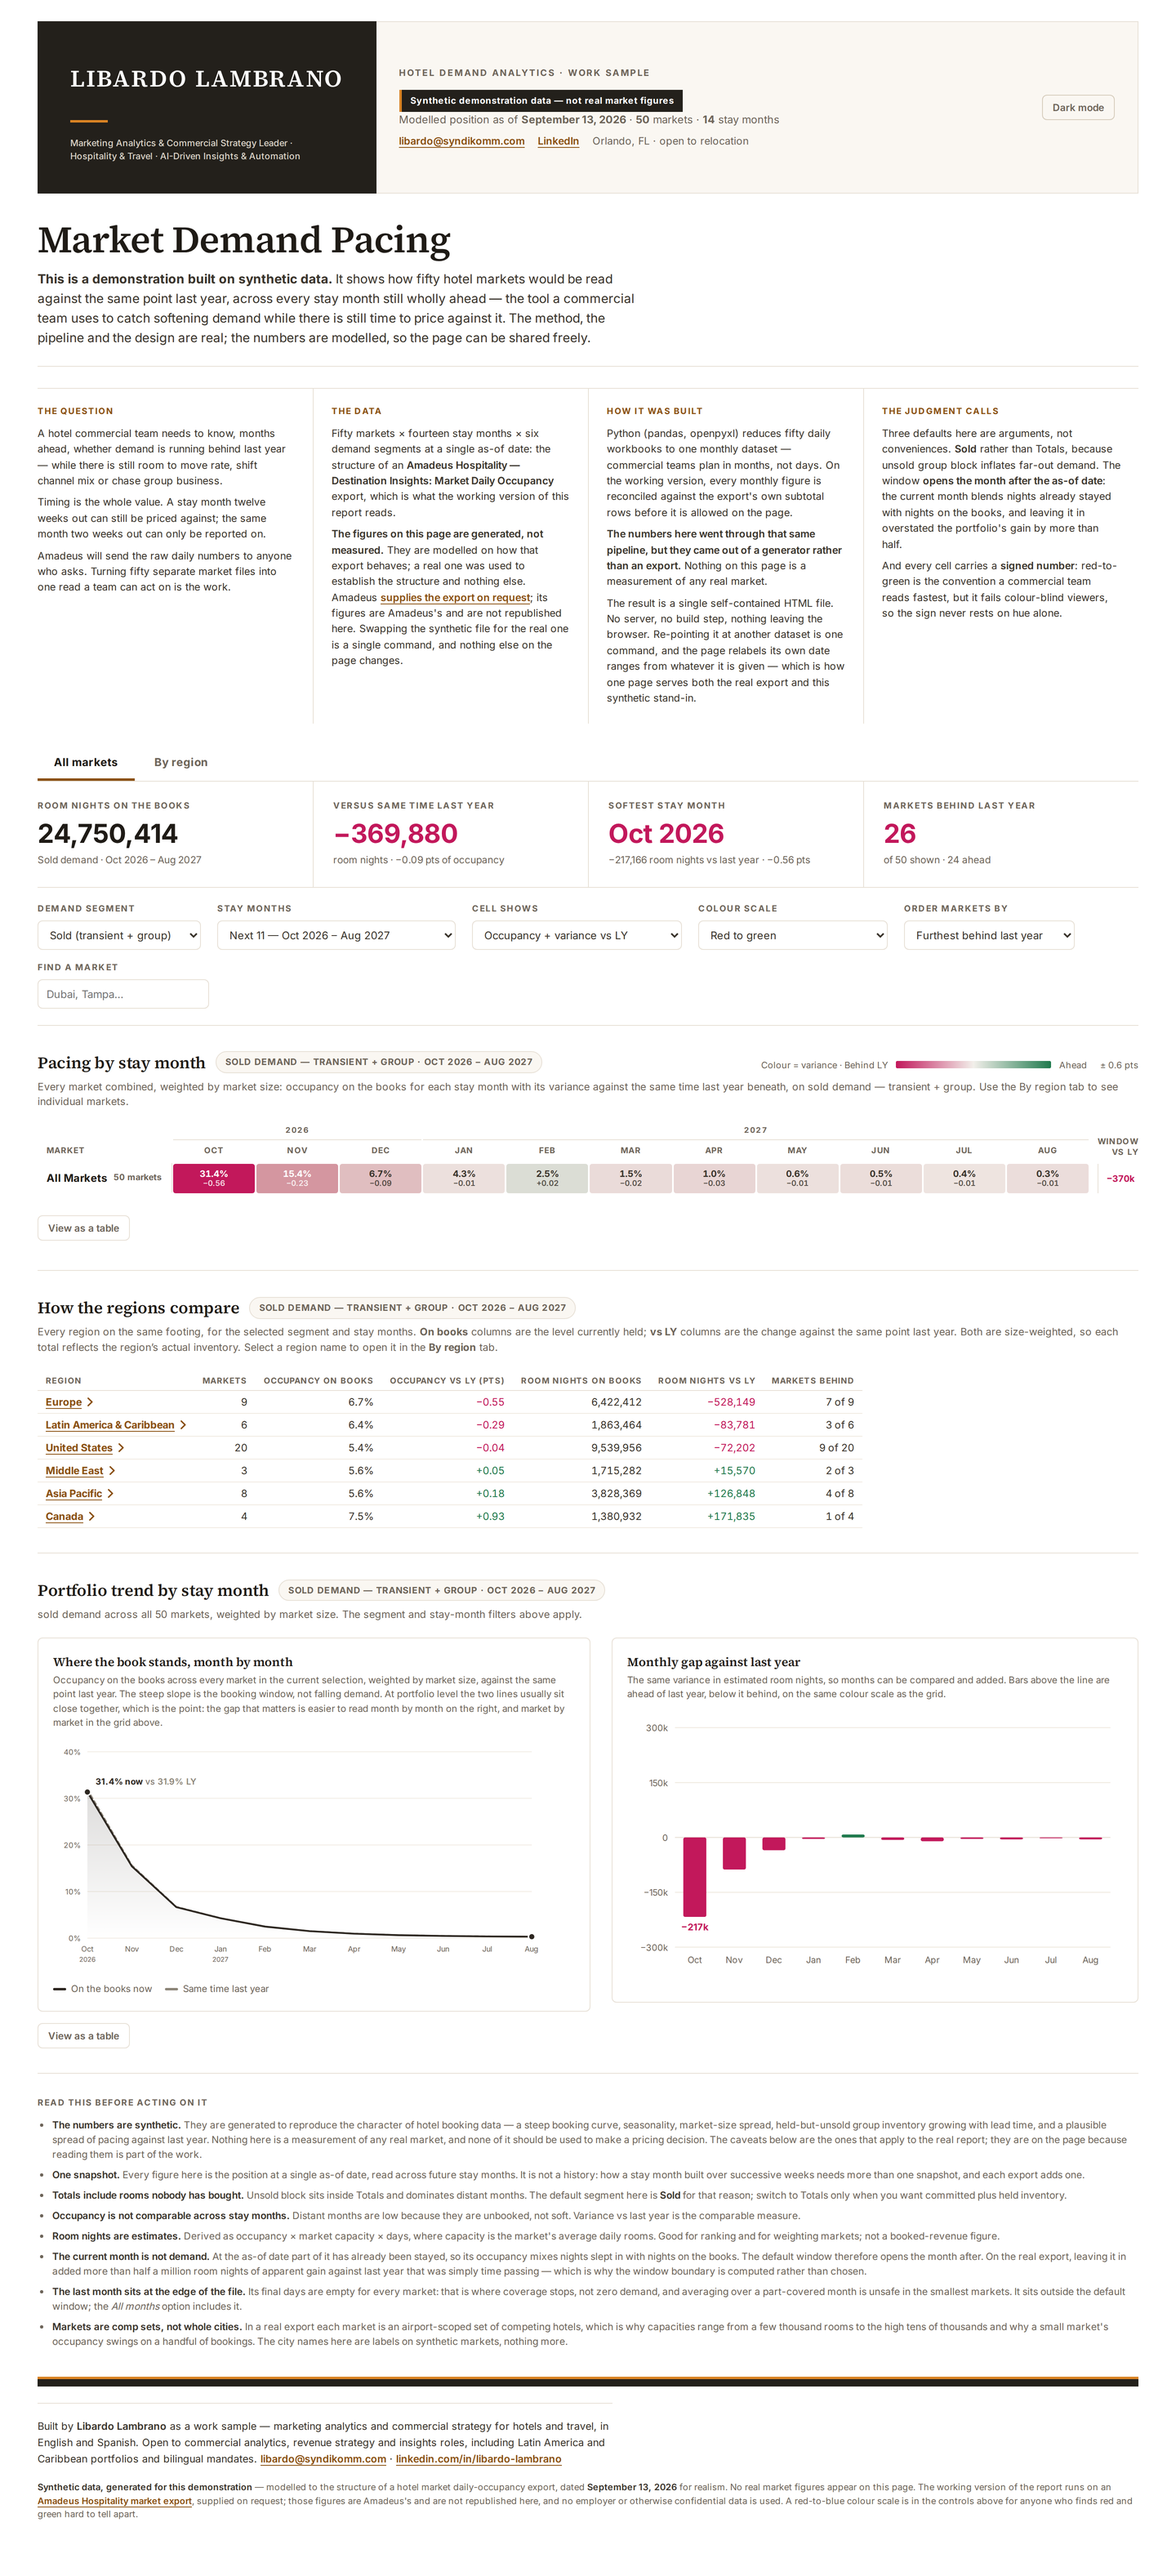
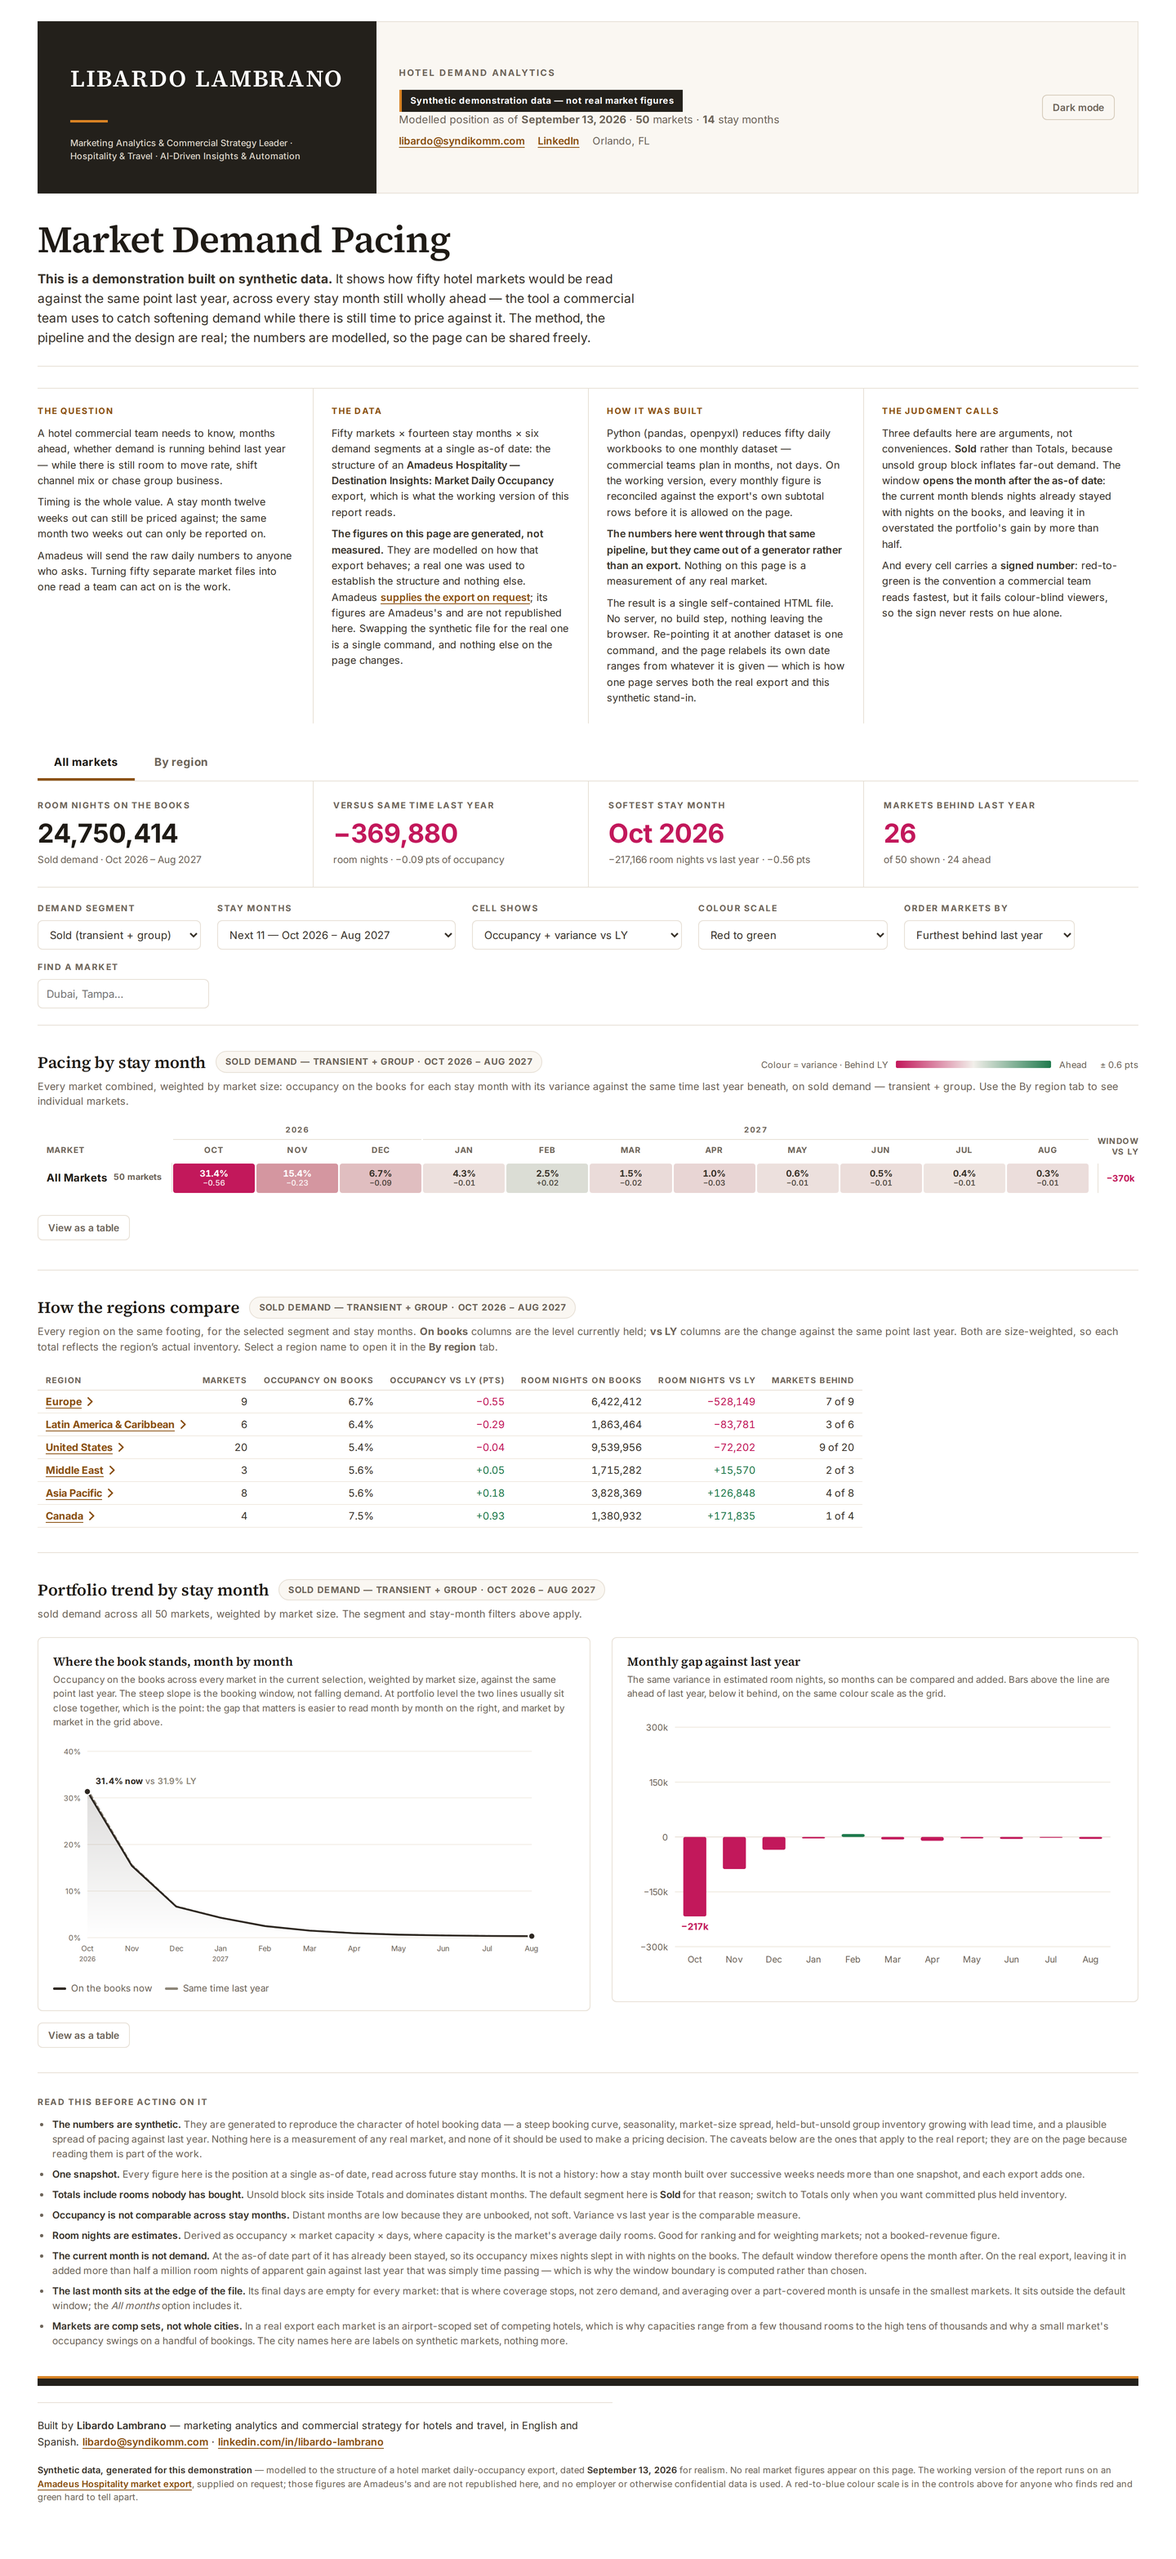
update copy work related

diff --git a/index.html b/index.html
@@ -184,8 +184,8 @@ button.ghost:hover{color:var(--ink); border-color:var(--accent)}
 button.ghost:focus-visible{outline:2px solid var(--accent); outline-offset:2px}
 
 /* ── about this analysis ──────────────────────────────────
-   Four short columns between the headline and the data. This is a work
-   sample, so the reasoning behind the page is part of the deliverable. */
+   Four short columns between the headline and the data. The reasoning behind
+   the page is part of what the page is for, so it is stated, not buried. */
 .about{
   display:grid; grid-template-columns:repeat(4,1fr); gap:0;
   border-top:1px solid var(--hairline); margin-top:26px;
@@ -529,13 +529,13 @@ svg{display:block; width:100%; max-width:100%; height:auto}
     </div>
     <div class="mh-meta">
       <div>
-        <p class="eyebrow">Hotel demand analytics · work sample</p>
+        <p class="eyebrow">Hotel demand analytics</p>
         <p class="synthflag">Synthetic demonstration data — not real market figures</p>
         <p class="asof">Modelled position as of <b id="asof">—</b> · <b id="nmk">50</b> markets · <b id="nmonths">—</b> stay months</p>
         <p class="mh-contact">
           <a href="mailto:libardo@syndikomm.com">libardo@syndikomm.com</a>
           <a href="https://www.linkedin.com/in/libardo-lambrano/" target="_blank" rel="noopener">LinkedIn</a>
-          <span>Orlando, FL · open to relocation</span>
+          <span>Orlando, FL</span>
         </p>
       </div>
       <div class="tools">
@@ -754,7 +754,7 @@ svg{display:block; width:100%; max-width:100%; height:auto}
       <li><b>Markets are comp sets, not whole cities.</b> In a real export each market is an airport-scoped set of competing hotels, which is why capacities range from a few thousand rooms to the high tens of thousands and why a small market's occupancy swings on a handful of bookings. The city names here are labels on synthetic markets, nothing more.</li>
     </ul>
     <div class="footbar"></div>
-    <p class="colophon">Built by <b>Libardo Lambrano</b> as a work sample — marketing analytics and commercial strategy for hotels and travel, in English and Spanish. Open to commercial analytics, revenue strategy and insights roles, including Latin America and Caribbean portfolios and bilingual mandates.
+    <p class="colophon">Built by <b>Libardo Lambrano</b> — marketing analytics and commercial strategy for hotels and travel, in English and Spanish.
       <a href="mailto:libardo@syndikomm.com">libardo@syndikomm.com</a> ·
       <a href="https://www.linkedin.com/in/libardo-lambrano/" target="_blank" rel="noopener">linkedin.com/in/libardo-lambrano</a></p>
     <p class="srcline"><b>Synthetic data, generated for this demonstration</b> — modelled to the structure of a hotel market daily-occupancy export, dated <b id="srcasof">—</b> for realism. No real market figures appear on this page. The working version of the report runs on an <a href="https://www.amadeus-hospitality.com/local-market-report/" target="_blank" rel="noopener">Amadeus Hospitality market export</a>, supplied on request; those figures are Amadeus's and are not republished here, and no employer or otherwise confidential data is used. A red-to-blue colour scale is in the controls above for anyone who finds red and green hard to tell apart.</p>

diff --git a/dashboard.html b/dashboard.html
@@ -177,8 +177,8 @@ button.ghost:hover{color:var(--ink); border-color:var(--accent)}
 button.ghost:focus-visible{outline:2px solid var(--accent); outline-offset:2px}
 
 /* ── about this analysis ──────────────────────────────────
-   Four short columns between the headline and the data. This is a work
-   sample, so the reasoning behind the page is part of the deliverable. */
+   Four short columns between the headline and the data. The reasoning behind
+   the page is part of what the page is for, so it is stated, not buried. */
 .about{
   display:grid; grid-template-columns:repeat(4,1fr); gap:0;
   border-top:1px solid var(--hairline); margin-top:26px;
@@ -522,12 +522,12 @@ svg{display:block; width:100%; max-width:100%; height:auto}
     </div>
     <div class="mh-meta">
       <div>
-        <p class="eyebrow">Hotel demand analytics · work sample</p>
+        <p class="eyebrow">Hotel demand analytics</p>
         <p class="asof">On the books as of <b id="asof">—</b> · <b id="nmk">50</b> airport markets · <b id="nmonths">—</b> stay months</p>
         <p class="mh-contact">
           <a href="mailto:libardo@syndikomm.com">libardo@syndikomm.com</a>
           <a href="https://www.linkedin.com/in/libardo-lambrano/" target="_blank" rel="noopener">LinkedIn</a>
-          <span>Orlando, FL · open to relocation</span>
+          <span>Orlando, FL</span>
         </p>
       </div>
       <div class="tools">
@@ -734,7 +734,7 @@ svg{display:block; width:100%; max-width:100%; height:auto}
       <li><b>Markets are airport comp sets, not metros.</b> A 14,404-room "Los Angeles" and a 2,098-room "Cancún" are airport-scoped subsets; do not read them as whole cities.</li>
     </ul>
     <div class="footbar"></div>
-    <p class="colophon">Built by <b>Libardo Lambrano</b> as a work sample — marketing analytics and commercial strategy for hotels and travel, in English and Spanish. Open to commercial analytics, revenue strategy and insights roles, including Latin America and Caribbean portfolios and bilingual mandates.
+    <p class="colophon">Built by <b>Libardo Lambrano</b> — marketing analytics and commercial strategy for hotels and travel, in English and Spanish.
       <a href="mailto:libardo@syndikomm.com">libardo@syndikomm.com</a> ·
       <a href="https://www.linkedin.com/in/libardo-lambrano/" target="_blank" rel="noopener">linkedin.com/in/libardo-lambrano</a></p>
     <p class="srcline">Source: <b>Amadeus Hospitality</b>, <i>Destination Insights — Market Daily Occupancy</i>; 50 market exports, data as of <b id="srcasof">—</b>, pulled <b id="srcrun">—</b>. Amadeus supplies this report <a href="https://www.amadeus-hospitality.com/local-market-report/" target="_blank" rel="noopener">on request at no cost</a>; the figures are Amadeus's and remain theirs. No employer or otherwise confidential data is used here. A red-to-blue colour scale is in the controls above for anyone who finds red and green hard to tell apart.</p>

diff --git a/scripts/build_synthetic.py b/scripts/build_synthetic.py
@@ -29,8 +29,8 @@ EDITS = [
  "<title>Market Demand Pacing — Synthetic Demonstration</title>"),
 
 # ── masthead: a permanent marker in the band, above the as-of line ───────────
-('<p class="eyebrow">Hotel demand analytics · work sample</p>',
- '<p class="eyebrow">Hotel demand analytics · work sample</p>\n'
+('<p class="eyebrow">Hotel demand analytics</p>',
+ '<p class="eyebrow">Hotel demand analytics</p>\n'
  '        <p class="synthflag">Synthetic demonstration data — not real market figures</p>'),
 
 ('''        <p class="asof">On the books as of <b id="asof">—</b> · <b id="nmk">50</b> airport markets · <b id="nmonths">—</b> stay months</p>''',
@@ -140,8 +140,9 @@ def main():
                  "generated, not measured",
                  "No real market figures appear on this page"):
         assert must in out, f"missing the synthetic disclaimer: {must!r}"
-    (ROOT / "synthetic-demo.html").write_text(out)
-    print(f"built synthetic-demo.html  {len(out)/1024:.1f} KB  ({len(EDITS)} edits applied)")
+    # index.html so GitHub Pages serves it at the site root
+    (ROOT / "index.html").write_text(out)
+    print(f"built index.html  {len(out)/1024:.1f} KB  ({len(EDITS)} edits applied)")
 
 
 if __name__ == "__main__":
